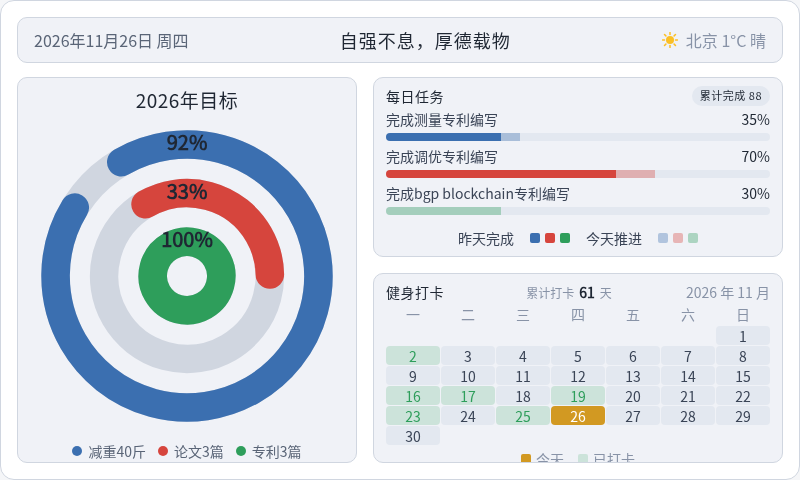
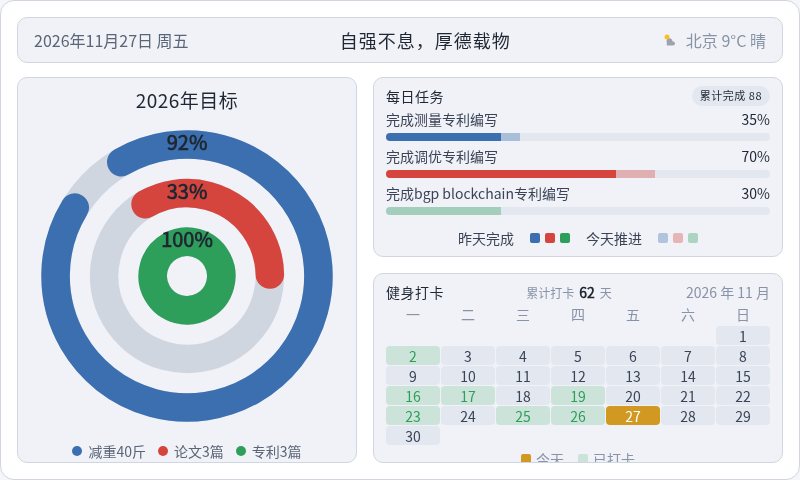
chore: 每日看板刷新 2026-11-27

diff --git a/output/dashboard/dashboard.html b/output/dashboard/dashboard.html
@@ -185,11 +185,11 @@
 <body>
   <div class="dash">
     <div class="topbar">
-      <div class="tb-date" id="tbDate">2026年11月26日 周四</div>
+      <div class="tb-date" id="tbDate">2026年11月27日 周五</div>
       <div class="tb-slogan">自强不息，厚德载物</div>
       <div class="tb-weather">
-        <svg width="16" height="16" viewBox="0 0 16 16" aria-hidden="true"><circle cx="8" cy="8" r="4" fill="#fbbf24"/><g stroke="#fbbf24" stroke-width="1.5" stroke-linecap="round"><line x1="8" y1="0.5" x2="8" y2="2.5"/><line x1="8" y1="13.5" x2="8" y2="15.5"/><line x1="0.5" y1="8" x2="2.5" y2="8"/><line x1="13.5" y1="8" x2="15.5" y2="8"/><line x1="2.5" y1="2.5" x2="3.9" y2="3.9"/><line x1="12.1" y1="12.1" x2="13.5" y2="13.5"/><line x1="13.5" y1="2.5" x2="12.1" y2="3.9"/><line x1="3.9" y1="12.1" x2="2.5" y2="13.5"/></g></svg>
-        <span>北京 1°C 晴</span>
+        <svg width="16" height="16" viewBox="0 0 16 16" aria-hidden="true"><circle cx="5" cy="5" r="2.5" fill="#fbbf24"/><path d="M5 11 a3 3 0 1 1 5.5 -1.5 h0.5 a2 2 0 1 1 0 4 H5 a2.5 2.5 0 0 1 0 -2.5z" fill="#9ca3af"/></svg>
+        <span>北京 9°C 晴</span>
       </div>
     </div>
     <div class="content">
@@ -242,13 +242,13 @@
           <span class="panel-title" style="margin:0;color:#1f2733">健身打卡</span>
           <span class="cal-stats">
             <span class="cal-stats-label">累计打卡</span>
-            <span class="cal-stats-num" style="color:#1f2733">61</span>
+            <span class="cal-stats-num" style="color:#1f2733">62</span>
             <span class="cal-stats-label">天</span>
           </span>
           <span class="cal-date">2026 年 11 月</span>
         </div>
         <div class="cal-grid wk"><span>一</span><span>二</span><span>三</span><span>四</span><span>五</span><span>六</span><span>日</span></div>
-        <div class="cal-grid"><span class="cell empty"></span><span class="cell empty"></span><span class="cell empty"></span><span class="cell empty"></span><span class="cell empty"></span><span class="cell empty"></span><span class="cell" style="background:#e3e8f0;color:#3a4456">1</span><span class="cell done" style="background:rgba(46,158,91,0.18);color:#2e9e5b">2</span><span class="cell" style="background:#e3e8f0;color:#3a4456">3</span><span class="cell" style="background:#e3e8f0;color:#3a4456">4</span><span class="cell" style="background:#e3e8f0;color:#3a4456">5</span><span class="cell" style="background:#e3e8f0;color:#3a4456">6</span><span class="cell" style="background:#e3e8f0;color:#3a4456">7</span><span class="cell" style="background:#e3e8f0;color:#3a4456">8</span><span class="cell" style="background:#e3e8f0;color:#3a4456">9</span><span class="cell" style="background:#e3e8f0;color:#3a4456">10</span><span class="cell" style="background:#e3e8f0;color:#3a4456">11</span><span class="cell" style="background:#e3e8f0;color:#3a4456">12</span><span class="cell" style="background:#e3e8f0;color:#3a4456">13</span><span class="cell" style="background:#e3e8f0;color:#3a4456">14</span><span class="cell" style="background:#e3e8f0;color:#3a4456">15</span><span class="cell done" style="background:rgba(46,158,91,0.18);color:#2e9e5b">16</span><span class="cell done" style="background:rgba(46,158,91,0.18);color:#2e9e5b">17</span><span class="cell" style="background:#e3e8f0;color:#3a4456">18</span><span class="cell done" style="background:rgba(46,158,91,0.18);color:#2e9e5b">19</span><span class="cell" style="background:#e3e8f0;color:#3a4456">20</span><span class="cell" style="background:#e3e8f0;color:#3a4456">21</span><span class="cell" style="background:#e3e8f0;color:#3a4456">22</span><span class="cell done" style="background:rgba(46,158,91,0.18);color:#2e9e5b">23</span><span class="cell" style="background:#e3e8f0;color:#3a4456">24</span><span class="cell done" style="background:rgba(46,158,91,0.18);color:#2e9e5b">25</span><span class="cell today" style="background:#d29922;color:#ffffff">26</span><span class="cell" style="background:#e3e8f0;color:#3a4456">27</span><span class="cell" style="background:#e3e8f0;color:#3a4456">28</span><span class="cell" style="background:#e3e8f0;color:#3a4456">29</span><span class="cell" style="background:#e3e8f0;color:#3a4456">30</span></div>
+        <div class="cal-grid"><span class="cell empty"></span><span class="cell empty"></span><span class="cell empty"></span><span class="cell empty"></span><span class="cell empty"></span><span class="cell empty"></span><span class="cell" style="background:#e3e8f0;color:#3a4456">1</span><span class="cell done" style="background:rgba(46,158,91,0.18);color:#2e9e5b">2</span><span class="cell" style="background:#e3e8f0;color:#3a4456">3</span><span class="cell" style="background:#e3e8f0;color:#3a4456">4</span><span class="cell" style="background:#e3e8f0;color:#3a4456">5</span><span class="cell" style="background:#e3e8f0;color:#3a4456">6</span><span class="cell" style="background:#e3e8f0;color:#3a4456">7</span><span class="cell" style="background:#e3e8f0;color:#3a4456">8</span><span class="cell" style="background:#e3e8f0;color:#3a4456">9</span><span class="cell" style="background:#e3e8f0;color:#3a4456">10</span><span class="cell" style="background:#e3e8f0;color:#3a4456">11</span><span class="cell" style="background:#e3e8f0;color:#3a4456">12</span><span class="cell" style="background:#e3e8f0;color:#3a4456">13</span><span class="cell" style="background:#e3e8f0;color:#3a4456">14</span><span class="cell" style="background:#e3e8f0;color:#3a4456">15</span><span class="cell done" style="background:rgba(46,158,91,0.18);color:#2e9e5b">16</span><span class="cell done" style="background:rgba(46,158,91,0.18);color:#2e9e5b">17</span><span class="cell" style="background:#e3e8f0;color:#3a4456">18</span><span class="cell done" style="background:rgba(46,158,91,0.18);color:#2e9e5b">19</span><span class="cell" style="background:#e3e8f0;color:#3a4456">20</span><span class="cell" style="background:#e3e8f0;color:#3a4456">21</span><span class="cell" style="background:#e3e8f0;color:#3a4456">22</span><span class="cell done" style="background:rgba(46,158,91,0.18);color:#2e9e5b">23</span><span class="cell" style="background:#e3e8f0;color:#3a4456">24</span><span class="cell done" style="background:rgba(46,158,91,0.18);color:#2e9e5b">25</span><span class="cell done" style="background:rgba(46,158,91,0.18);color:#2e9e5b">26</span><span class="cell today" style="background:#d29922;color:#ffffff">27</span><span class="cell" style="background:#e3e8f0;color:#3a4456">28</span><span class="cell" style="background:#e3e8f0;color:#3a4456">29</span><span class="cell" style="background:#e3e8f0;color:#3a4456">30</span></div>
         <div class="cal-legend">
           <span style="color:#8893a7"><i class="sw" style="background:#d29922"></i>今天</span>
           <span style="color:#8893a7"><i class="sw" style="background:rgba(46,158,91,0.18)"></i>已打卡</span>
